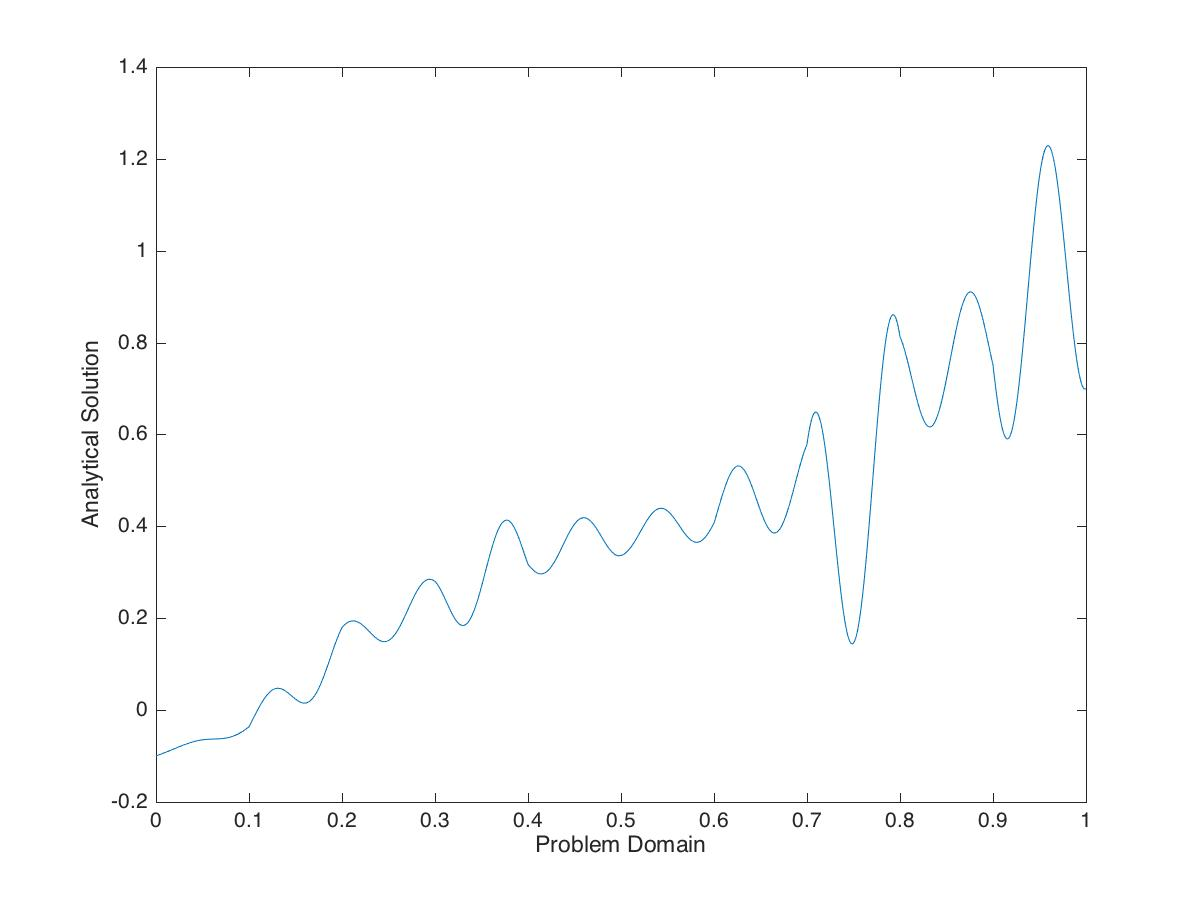
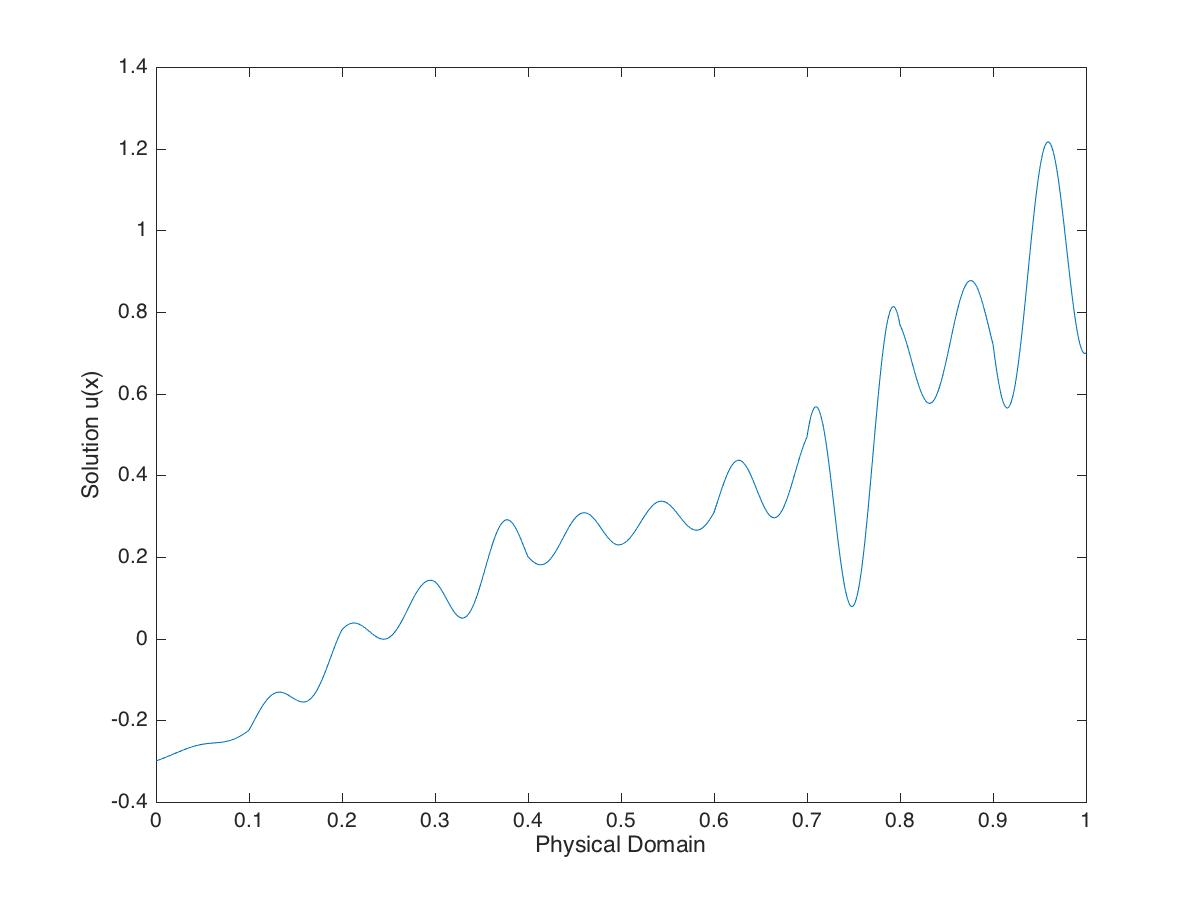
Fixed analytical solution (had the wrong left boundary condition). Added option to precondition.

diff --git a/HW3/Novak_April_HW3.tex b/HW3/Novak_April_HW3.tex
@@ -192,16 +192,16 @@ Eq. \eqref{eq:Left} and Eq. \eqref{eq:Right} provide two boundary conditions, wh
 \hline\hline
 Domain & \(C_1\) & \(C_2\)\\ [0.5ex]
 \hline
-\(0.0\leq x< 0.1\) & 1.6057  & -0.1000\\
-\(0.1\leq x< 0.2\) & 1.6057  & -0.1953\\
-\(0.2\leq x< 0.3\) & 1.6057  & -0.0346 \\
-\(0.3\leq x< 0.4\) & 1.6057  & -0.1605\\
-\(0.4\leq x< 0.5\) & 1.6057  &  0.1001\\
-\(0.5\leq x< 0.6\) & 1.6057  &  0.1632\\
-\(0.6\leq x< 0.7\) & 1.6057  &  0.0006\\
-\(0.7\leq x< 0.8\) & 1.6057  &  -1.1558\\
-\(0.8\leq x< 0.9\) & 1.6057  &  0.0747\\
-\(0.9\leq x< 1.0\) & 1.6057  &  -0.6018\\
+\(0.0\leq x< 0.1\) & 1.9052  & -0.3000\\
+\(0.1\leq x< 0.2\) & 1.9052  & -0.4133\\
+\(0.2\leq x< 0.3\) & 1.9052  & -0.2269 \\
+\(0.3\leq x< 0.4\) & 1.9052  & -0.3733\\
+\(0.4\leq x< 0.5\) & 1.9052  & -0.0605\\
+\(0.5\leq x< 0.6\) & 1.9052  &  0.0171\\
+\(0.6\leq x< 0.7\) & 1.9052  & -0.1774\\
+\(0.7\leq x< 0.8\) & 1.9052  & -1.5201\\
+\(0.8\leq x< 0.9\) & 1.9052  & -0.0900\\
+\(0.9\leq x< 1.0\) & 1.9052  & -0.9012\\
 \hline
 \end{tabular}
 \label{table:orders}
@@ -455,7 +455,44 @@ The point at which the iterations are stopped is based on the energy norm discus
 \left(\vv{a}^{T,i+1}-\vv{a}^{T,i}\right)\textbf{K}\left(\vv{a}^{i+1}-\vv{a}^i\right)<0.000001
 \end{equation}
 
+The PCG method has convergence behavior dictated by:
 
+\begin{equation}
+\|\vv{a}-\vv{a}^{i}\|_K\leq\left(\frac{\sqrt{C(\textbf{K})}-1}{\sqrt{C(\textbf{K})}+1}\right)^i\|\vv{a}-\vv{a}^1\|_K
+\end{equation}
+
+In other words, the convergence speed is governed by the condition number. The identity matrix has the lowest possible condition number of 1, but real physical problems tend to have much larger condition numbers. The higher the condition number, then the slower the rate of convergence. Preconditioning can be used to transform the linear system \(\textbf{K}\vv{a}=\vv{R}\) to a different domain in which the condition number is higher. The preconditioning matrix \textbf{T} is used to introduce this change of variables:
+
+\begin{equation}
+\label{eq:Transformation}
+\textbf{K}\vv{a}=\vv{R}\quad\rightarrow\hat{\textbf{K}}\hat{\vv{a}}=\hat{\vv{R}}
+\end{equation}
+
+where
+
+\begin{equation}
+\label{eq:TransformationSpecs}
+\begin{aligned}
+\hat{\vv{a}}=\textbf{T}^{-1}\vv{a}\\
+\hat{\textbf{K}}=\textbf{T}^{T}\textbf{K}\textbf{T}\\
+\hat{\vv{R}}=\textbf{T}^T\vv{R}\\
+\end{aligned}
+\end{equation}
+
+Then, it is the condition number of \(\hat{\textbf{K}}\) that controls the convergence. The best possible preconditioner is to set \(\textbf{T}=\textbf{L}^{-T}\), where \(\textbf{L}\textbf{L}^T=\textbf{K}\) and \textbf{L} is a lower-triangular matrix. With this preconditioner, Eq. \eqref{eq:Transformation} becomes:
+
+\begin{equation}
+\label{eq:Transformation2}
+\underbrace{\textbf{L}^{-1}\textbf{L}}_\text{\textbf{I}}\underbrace{\textbf{L}^T\textbf{L}^{-T}}_\text{\textbf{I}}\hat{\vv{a}}=\hat{\vv{R}}
+\end{equation}
+
+which then gives \(\textbf{I}\hat{\vv{a}}=\hat{\vv{R}}\), which is an incredibly easy system to solve numerically, since then \(\hat{\vv{a}}=\hat{\vv{R}}\). However, the cost to form \(\textbf{L}\) is of order \(N^3\), and hence defeats the purpose of using the PCG method, since standard Gaussian elimination also scales as approximately \(N^3\). Hence, a simpler preconditioner is selected here. For this assignment, a diagonal preconditioner is used:
+
+\begin{equation}
+T_{ij}=\frac{1}{\sqrt{K_{ij}}}\delta_{ij}
+\end{equation}
+
+where \(\delta_{ij}\) is the Kronecker delta. With this preconditioner, the transformations described in Eq. \eqref{eq:TransformationSpecs} are made. Then, the PCG method described earlier is performed on this preconditioned system. Once reaching an acceptable error tolerance, the result is transformed back to the actual problem domain to give the final result.
 
 \section{Solution Results and Discussion}
 

diff --git a/HW3/FEProgram.m b/HW3/FEProgram.m
@@ -11,16 +11,17 @@ num_elem = 5;                   % number of finite elements (initial guess)
 shape_order = 2;                % number of nodes per element
 E = 0.01;                       % elastic modulus
 left = 'Dirichlet';             % left boundary condition 
-left_value = -0.1;              % left Dirichlet boundary condition value
+left_value = -0.3;              % left Dirichlet boundary condition value
 right = 'Dirichlet';            % right boundary condition type
 right_value = 0.7;              % right Dirichlet boundary condition value
 tolerance = 0.04;               % convergence tolerance
 energy_norm = tolerance + 1;    % arbitrary initialization value
 fontsize = 16;                  % fontsize for plots
 pcg_error_tol = 0.000001;       % error tolerance for PCG
+precondition = 'precondition';  % 'nopreconditi' for no preconditioning
 
 if (N_plot_flag)
-     N_elem = [100];              % num_elem to cycle through for soln plots
+     N_elem = [1000];              % num_elem to cycle through for soln plots
 elseif (k_plot_flag || k_plot_flag_dof)
      N_elem = 50:10:1000;        % num_elem to cycle through for e_N vs. N
 else
@@ -149,8 +150,7 @@ for num_elem = N_elem
 [K_uu, K_uk, F_u, F_k] = condensation(K, F, num_nodes, dirichlet_nodes);
 
 % perform the solve
-[a_u_condensed, a_u_condensed_ge] = PCG(K_uu, F_u, K_uk, dirichlet_nodes, pcg_error_tol);
-%plot(linspace(0, L, length(K_uu(1,:))), a_u_condensed_ge - a_u_condensed)
+[a_u_condensed, a_u_condensed_ge] = PCG(K_uu, F_u, K_uk, dirichlet_nodes, pcg_error_tol, precondition);
 
 % expand a_condensed to include the Dirichlet nodes
 a = zeros(num_nodes, 1);
@@ -238,3 +238,10 @@ end
 
 % uncomment to find out how many elements are needed to reach the error tol
 %sprintf('For order = %i, number elements: %i', shape_order - 1, num_elem)
+
+% analytical solution plot
+plot(physical_domain, solution_analytical)
+xlabel('Physical Domain')
+ylabel('Solution u(x)')
+saveas(gcf, 'AnalyticalSoln2', 'jpeg')
+close all

diff --git a/HW3/PCG.m b/HW3/PCG.m
@@ -1,9 +1,24 @@
-function [a_u_condensed, a_u_condensed_ge] = PCG(K_uu, F_u, K_uk, dirichlet_nodes, pcg_error_tol)
+function [a_u_condensed, a_u_condensed_ge] = PCG(K_uu, F_u, K_uk, dirichlet_nodes, pcg_error_tol, precondition)
 
 % This function solves the system K * a = R
 
 K = K_uu;
 R = F_u - K_uk * dirichlet_nodes(2,:)';
+
+% Gaussian elimination method (for comparison)
+a_u_condensed_ge = K_uu \ R;
+
+if (precondition == 'precondition')
+    % diagonal preconditioner
+    T = diag(ones(1,length(K)));
+    for i = 1:length(K(1,:))
+        T(i,i) = 1 ./ sqrt(K(i,i));
+    end
+
+    % transform to the preconditioned regime
+    K = transpose(T) * K * T;
+    R = transpose(T) * R;
+end
 
 % pick the initial guess for the solution
 soln_iter = ones(1, length(K_uu))';
@@ -24,6 +39,7 @@ soln_iter = soln_prev + lambda * z;
 
 
 pcg_error = 1;
+num_updates = 1;
 % perform all subsequent updates
 while pcg_error > pcg_error_tol
     z_prev = z;
@@ -36,13 +52,18 @@ while pcg_error > pcg_error_tol
     lambda = transpose(z) * r / (transpose(z) * K * z);
     soln_iter = soln_prev + lambda * z;
 
-    pcg_error = (transpose(soln_iter) - transpose(soln_prev)) * K * (soln_iter - soln_prev);
+    pcg_error = (transpose(soln_iter) - transpose(soln_prev)) * K * (soln_iter - soln_prev)
+    num_updates = num_updates + 1;
 end
 
-% Gaussian elimination method (for comparison)
-a_u_condensed_ge = K_uu \ R;
-
 a_u_condensed = soln_iter;
+
+if (precondition == 'precondition')
+    % transform back from the preconditioned regime
+    a_u_condensed = T * a_u_condensed;
+end
+
+sprintf('Number of PCG iterations: %i', num_updates)
 
 end
 
